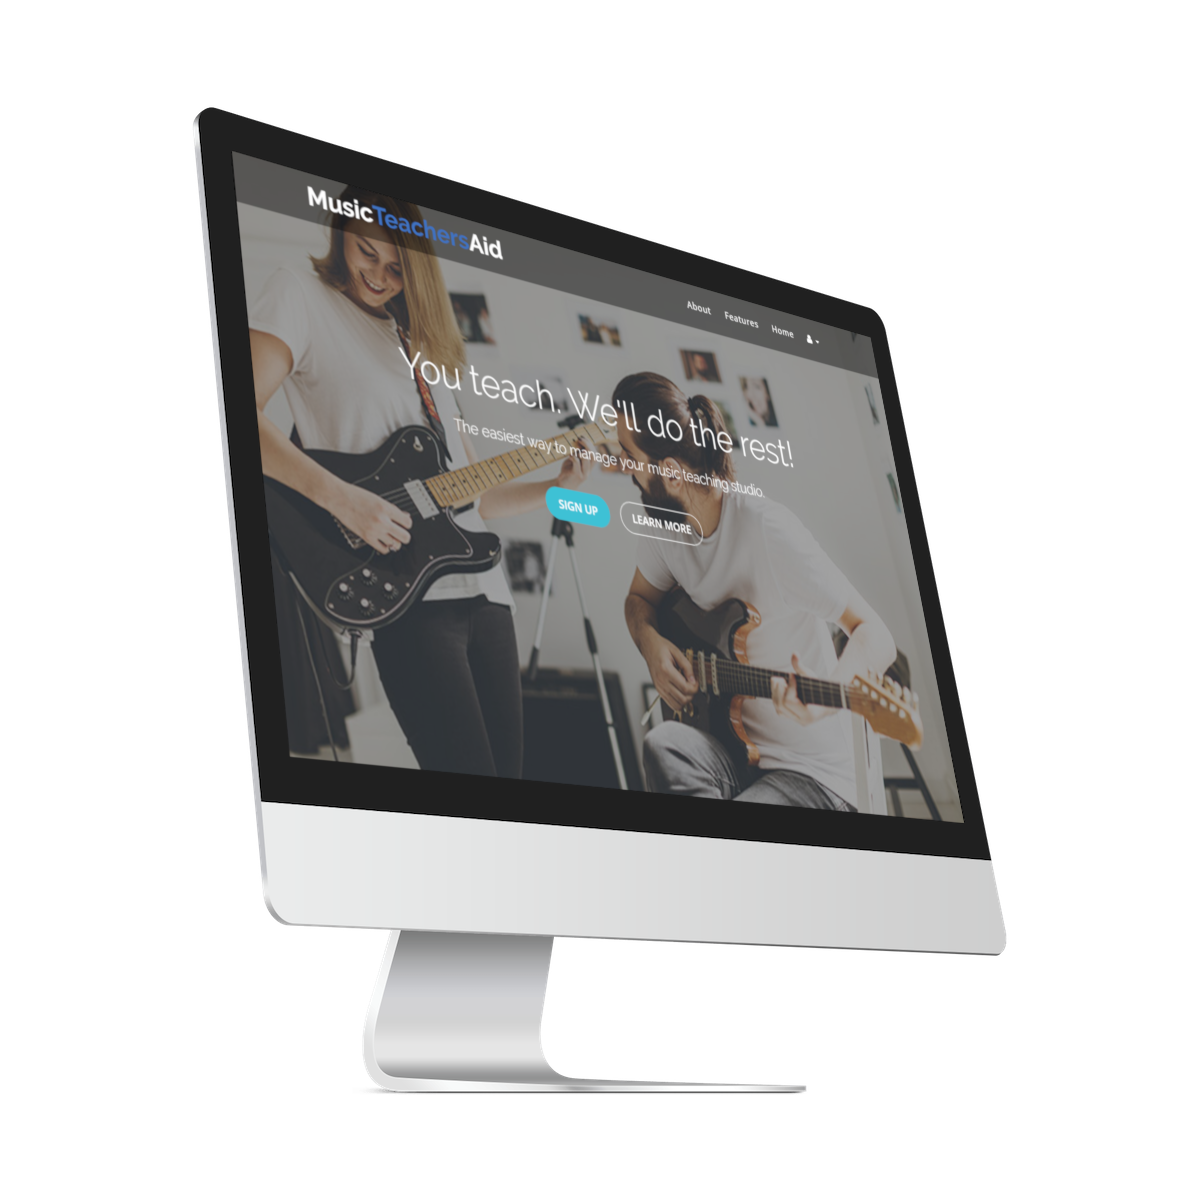
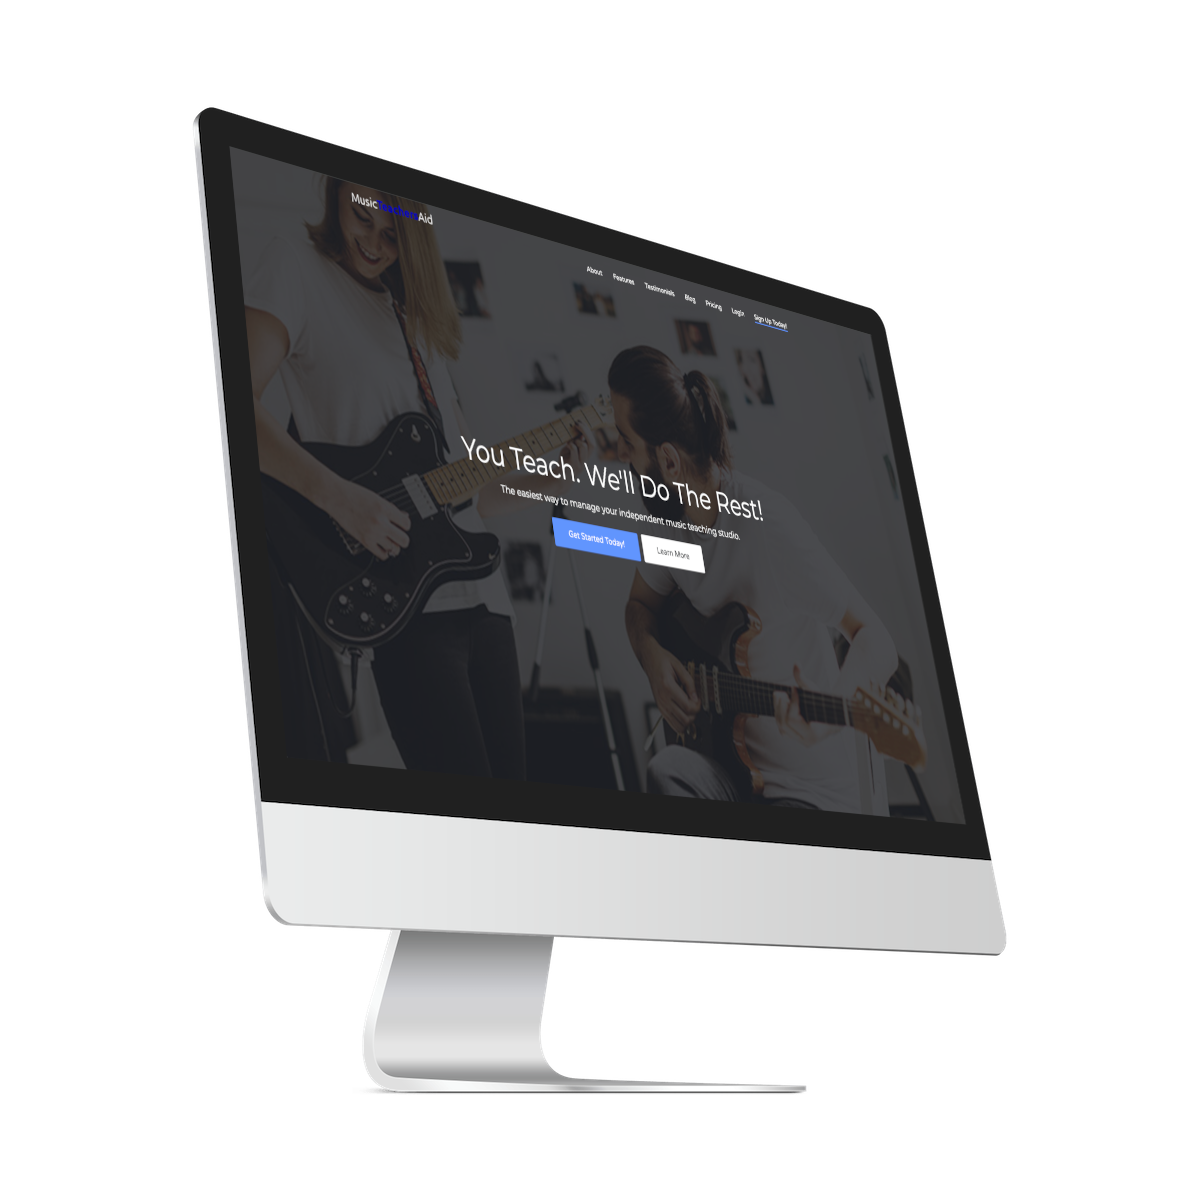
MTA-706 updated marketing pics for home page

Changed region(s): [[0.185, 0.1233, 0.8017, 0.7092]]

diff --git a/resources/views/marketing/home.blade.php b/resources/views/marketing/home.blade.php
@@ -77,8 +77,12 @@
                 </div>
                 <div class="col-md-7">
                     <div id="about-slider" class="owl-carousel owl-theme">
-                        <img class="img-responsive" src="{{ asset('marketing/img/monitor-4.png') }}" alt="monitor-screenshot">
                         <img class="img-responsive" src="{{ asset('marketing/img/monitor-1.png') }}" alt="monitor-screenshot">
+                        <img class="img-responsive" src="{{ asset('marketing/img/monitor-2.png') }}" alt="monitor-screenshot">
+                        <img class="img-responsive" src="{{ asset('marketing/img/monitor-3.png') }}" alt="monitor-screenshot">
+                        <img class="img-responsive" src="{{ asset('marketing/img/monitor-4.png') }}" alt="monitor-screenshot">
+                        <img class="img-responsive" src="{{ asset('marketing/img/monitor-5.png') }}" alt="monitor-screenshot">
+                        <img class="img-responsive" src="{{ asset('marketing/img/monitor-6.png') }}" alt="monitor-screenshot">
                     </div>
                 </div>
             </div>
